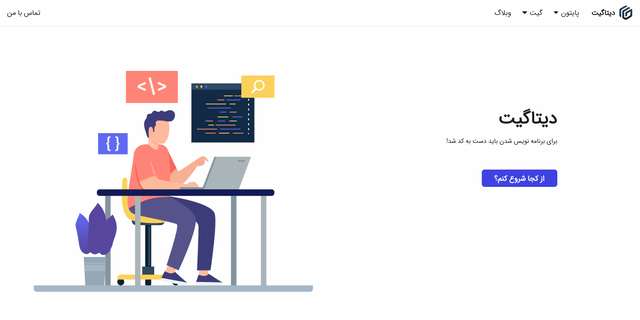
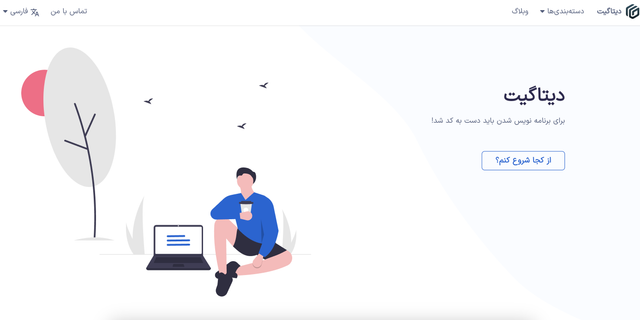
docs(showcase): Update datagit.ir showcase image, description, and tags  (#10939)

diff --git a/website/src/data/users.tsx b/website/src/data/users.tsx
@@ -301,10 +301,10 @@ const Users: User[] = [
   {
     title: 'Datagit',
     description:
-      'A persian tutorial website strive to make quality education for everyone.',
+      'A Persian tutorial website strives to make quality education for everyone.',
     preview: require('./showcase/datagit.png'),
     website: 'https://datagit.ir/',
-    source: 'https://github.com/ghaseminya/datagit_v2.docusaurus',
+    source: 'https://github.com/massoudmaboudi/datagit',
     tags: ['opensource', 'favorite', 'rtl'],
   },
   {